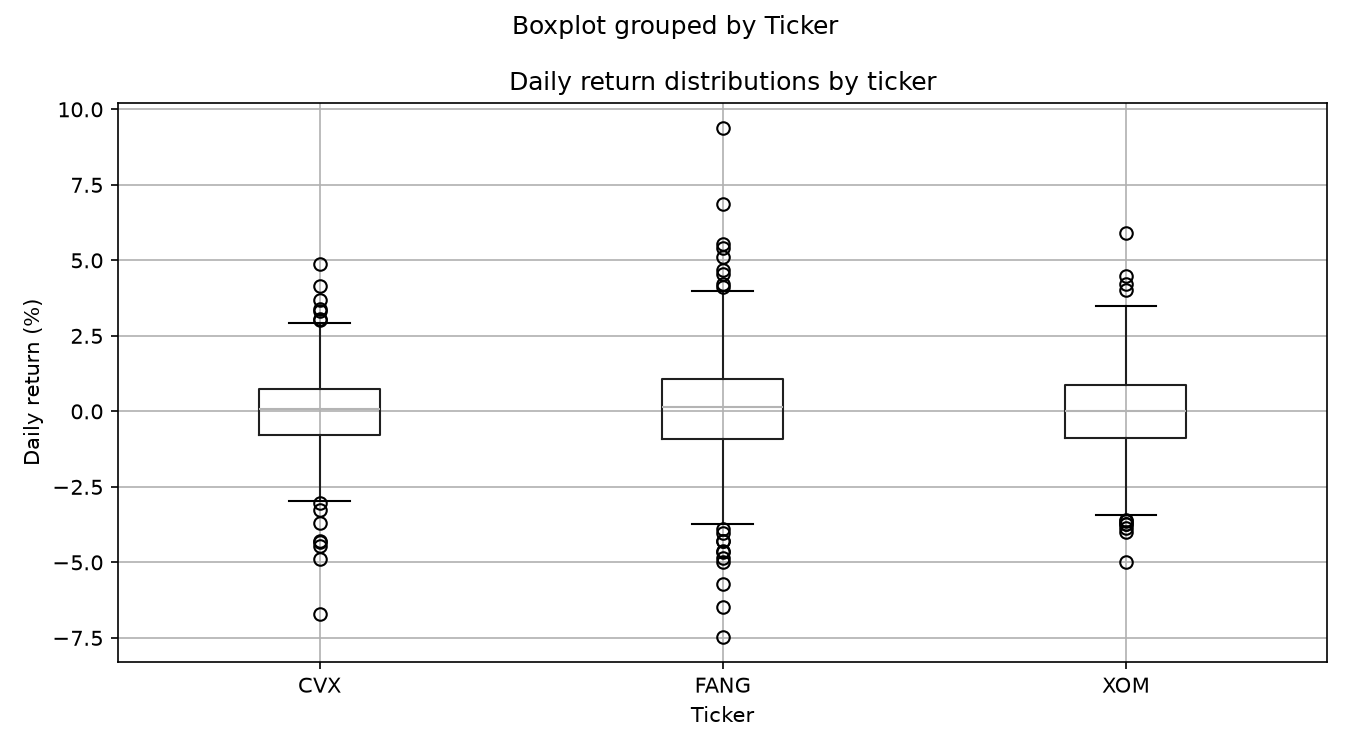
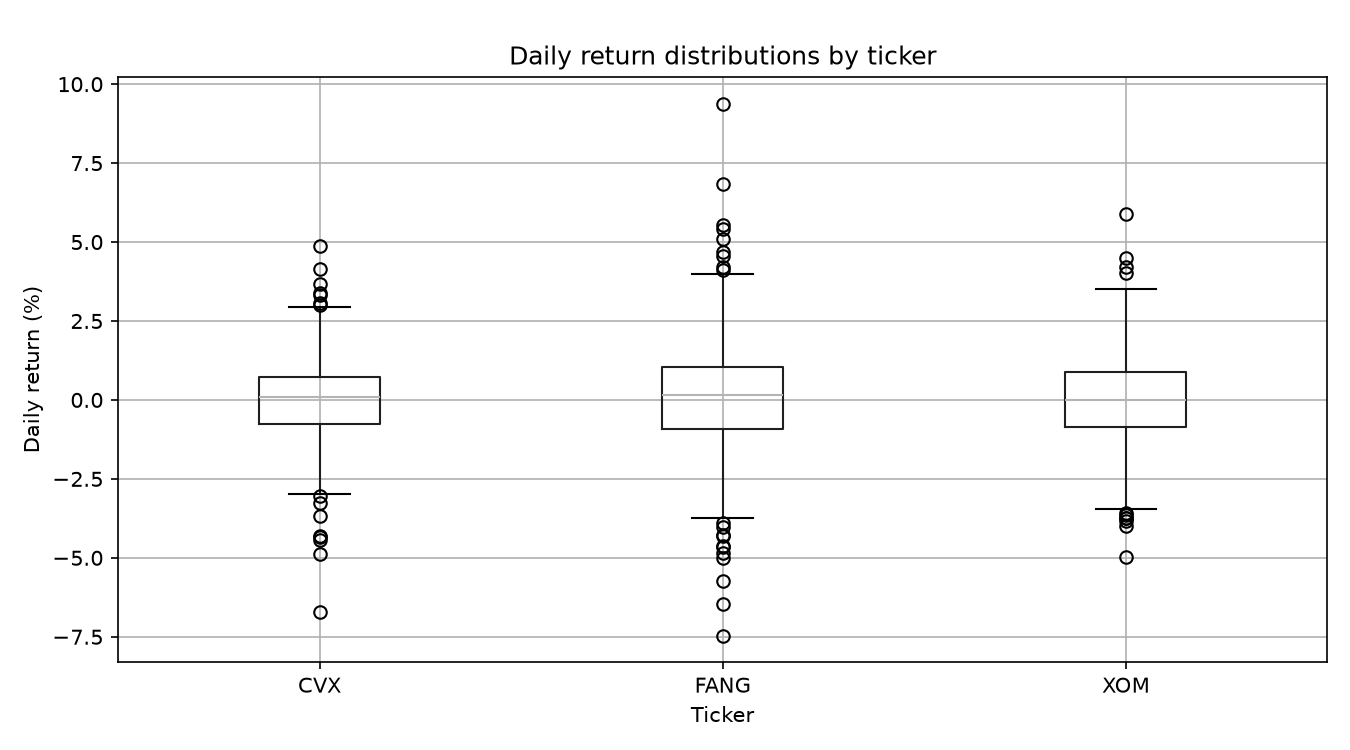
Chart 4 : Scatter plot of daily returns between CVX and XOM

diff --git a/stock_analysis.py b/stock_analysis.py
@@ -160,7 +160,7 @@ print("\nBusiness Story Summary:"
 "\nNegative movement - Total earning dropped"
 "\nFANG - FEBRUARY 13TH, 2024 "
 "\nPositive movement - Merger with Endeavor Energy"
-"\nXOM - MARCH APRIL 3RD, 2023 "
+"\nXOM - APRIL 3RD, 2023 "
 "\nPositive movement - OPEC+ meeting and production cuts announcement"
 )
 
@@ -213,11 +213,30 @@ plt.show()
 # Chart 3 : Distribution spread of daily returns of all stocks
 Path("charts").mkdir(exist_ok=True)
 
-long["Daily_Return"] = long["Daily_Return"] * 100  
-long.boxplot(column="Daily_Return", by="Ticker", figsize=(9,5))
+long["Daily_Return_Pct"] = long["Daily_Return"] * 100  
+long.boxplot(column="Daily_Return_Pct", by="Ticker", figsize=(9,5))
 plt.title("Daily return distributions by ticker")
+plt.suptitle("")
 plt.xlabel("Ticker")
 plt.ylabel("Daily return (%)")
 plt.tight_layout()
 plt.savefig("charts/return_distribution.png", dpi=150)
+plt.show()
+
+# Chart 4 : Scatter plot of daily returns between CVX and XOM
+Path("charts").mkdir(exist_ok=True)
+
+scatter_points = long.pivot(index="Date", columns="Ticker", values="Daily_Return_Pct")
+
+plt.figure(figsize=(7, 5))
+plt.scatter(
+    scatter_points["CVX"],
+    scatter_points["XOM"],
+    alpha=0.35,
+)
+plt.title("Daily return relationship: CVX vs. XOM")
+plt.xlabel("CVX daily return (%)")
+plt.ylabel("XOM daily return (%)")
+plt.tight_layout()
+plt.savefig("charts/return_relationship.png", dpi=150)
 plt.show()
